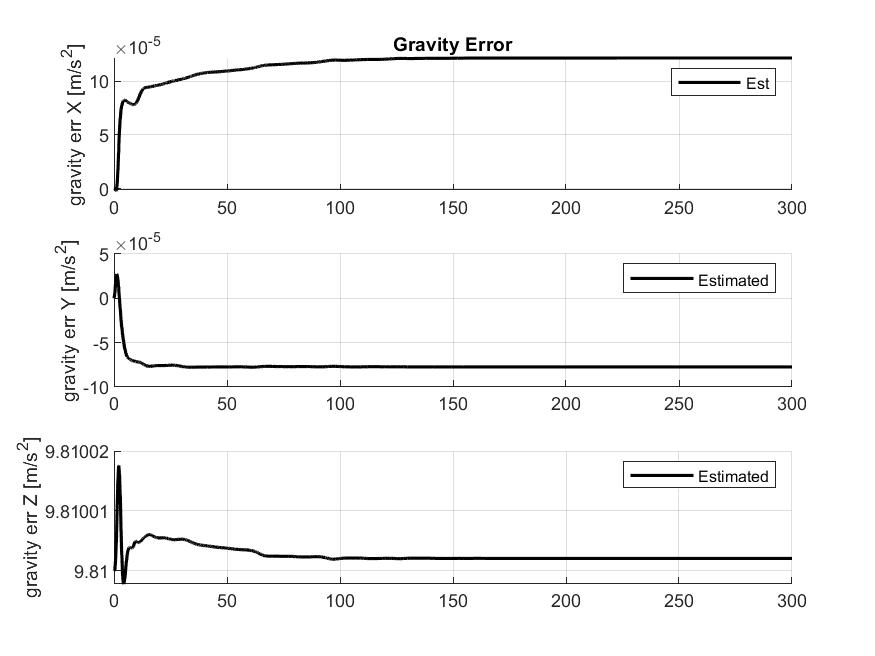
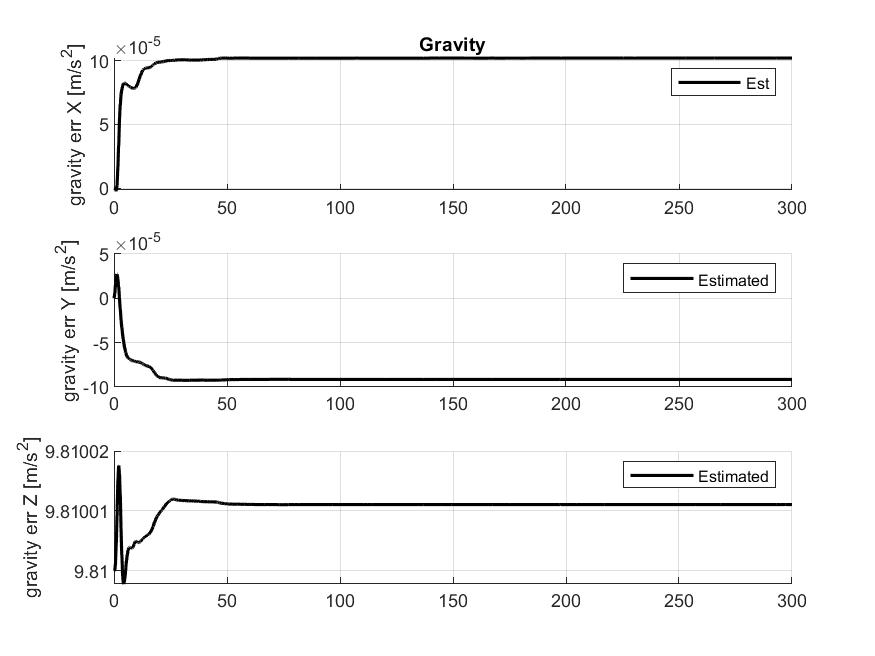
Added SkidpadSim to simulate the skidpadtrack, estimation works

diff --git a/ESKF/SkidPadSim.m b/ESKF/SkidPadSim.m
@@ -1,4 +1,4 @@
-function [p_n_nb_data,v_n_nb_data,q_nb_data, bacc_b_nb_data, bars_b_nb_data, f_b_imu_data, omega_b_imu_data,time, g_n_nb, v_abs] = CircleSim(simtime ,frequency, enable_plots)
+function [p_n_nb_data,v_n_nb_data,q_nb_data, bacc_b_nb_data, bars_b_nb_data, f_b_imu_data, omega_b_imu_data,time, g_n_nb, v_abs] = SkidPadSim(simtime ,frequency, enable_plots)
 %CIRCLESIM Summary of this function goes here
 %   Radius = 50 [m]
 %   Absolute velocity = (2 * pi * R)/30 [m/s] (30 sec per circle)
@@ -12,27 +12,13 @@ N = simtime/h;
 % Circle data
 R = 10 * sqrt(26);
 v_abs = (2 * pi * R) / 30;
-inclination = 20;
-height = 18.20;
+% inclination = 20;
+% height = 18.20;
 
 g = 9.81;
-t = 0;
-t_count = t;
+t = h;
+count = 1;
 
-
-% seed.Type = 'twister';
-% seed.Seed = 0;
-% seed.State = zeros(625,1)
-% fileID = fopen('working-seed.txt','r');
-% formatSpec = '%d';
-% workingSeed = fscanf(fileID,formatSpec);
-% fclose(fileID);
-% for index=1:625
-%     seed.State = workingSeed;
-% end
-% disp(seed.State);
-
-% seed = rng;
 
 % Allocate data
 time = zeros(1, N);
@@ -55,6 +41,7 @@ roll = deg2rad * -20;
 pitch = deg2rad * 0;
 yaw = deg2rad * 0;
 q_nb = euler2q(roll, pitch, yaw);
+q_nb = q_nb / norm(q_nb);
 % q_nb = [1 0 0 0]';
 
 % Bias
@@ -83,6 +70,15 @@ g_n_nb = [0 0 g]';
 for k = 1:N
     
     time(k) = t;
+    modulo = mod(round(t,5),15); 
+    if (modulo == 0)
+        count = count + 1;
+        if ( count == 2 )
+            omega_b_nb = -omega_b_nb;
+            a_b_nb = -a_b_nb;
+            count = 0; 
+        end
+    end
     p_n_nb_data(:,k) = p_n_nb;
     v_n_nb_data(:,k) = v_n_nb;
 %     att_n_nb_data(:,k) = att_n_nb;
@@ -116,11 +112,12 @@ for k = 1:N
 %     att_n_nb = att_n_nb + (h * omega_b_imu);
 %     att_n_nb = ssa(att_n_nb,'rad'); 
     q_nb = quatprod(q_nb,q_omega);
+    q_nb = q_nb / norm(q_nb);
     bacc_b_nb = acc_bias + 0.001 * wgn(3, 1, 1);
     bars_b_nb = ars_bias + 0.00005 * wgn(3, 1, 1);
 
     t = t + h;
-    t_count = t_count + h;
+%     t_count = t_count + h;
     
 %     alpha = alpha + (pi/(15*h));
 %     [ax_b_nb, ay_b_nb, az_b_nb] = trueBodyAccel(alpha, inclination);
@@ -207,20 +204,20 @@ if (enable_plots)
 %     figure(gcf);
 %     subplot(3, 1, 1)
 %     hold on;
-%     plot(time, rad2deg*att_n_nb_data(1,:), 'Color', 'black', 'Linewidth', 1.5);
+%     plot(time, rad2deg*q2euler(q_nb_data(1,:)), 'Color', 'black', 'Linewidth', 1.5);
 %     ylabel('Roll [m]')
 %     legend('True');
 %     title('Attitude');
 % 
 %     subplot(3, 1, 2)
 %     hold on;
-%     plot(time, rad2deg*att_n_nb_data(2,:), 'Color', 'black', 'Linewidth', 1.5);
+%     plot(time, rad2deg*q2euler(q_nb_data(2,:)), 'Color', 'black', 'Linewidth', 1.5);
 %     ylabel('Pitch [m]')
 %     legend('True');
 % 
 %     subplot(3, 1, 3)
 %     hold on;
-%     plot(time, rad2deg*att_n_nb_data(3,:), 'Color', 'black', 'Linewidth', 1.5);
+%     plot(time, rad2deg*q2euler(q_nb_data(3,:)), 'Color', 'black', 'Linewidth', 1.5);
 %     xlabel('Time [s]');
 %     ylabel('Yaw [m]')
 %     legend('True');
@@ -236,5 +233,3 @@ if (enable_plots)
 end
     
 end
-
-

diff --git a/ESKF/MESKF_sola.m b/ESKF/MESKF_sola.m
@@ -37,7 +37,7 @@ att_n_nb = zeros(3, N);
 g_err_data = zeros(3,N);
 
 % from sim
-[p_n_nb, v_n_nb, q_nb, bacc_b_nb, bars_b_nb, f_b_imu, omega_b_imu,time, g_n_nb, v_abs] = CircleSim(simtime,f_samp,0);
+[p_n_nb, v_n_nb, q_nb, bacc_b_nb, bars_b_nb, f_b_imu, omega_b_imu,time, g_n_nb, v_abs] = SkidPadSim(simtime,f_samp,0);
 % [p_n_nb, v_n_nb, att_n_nb, f_b_imu, w_b_imu,time] = StandStillSim(simtime,f_samp,0);
 
 % dual gnss config
@@ -114,7 +114,7 @@ for k = 1:N
         count = 0;
         
         % noisy measurements
-%         p_meas = p_n_nb(1:3,k) +  0.001 * wgn(3, 1, 1);
+        p_n_nb(1:3,k) = p_n_nb(1:3,k) +  0.001 * wgn(3, 1, 1);
 %         q_meas = q_nb(1:4,k) + 0.00005 * wgn(4, 1, 1);
 %         
 %         q_conj = quatconj(q_n_ins')';
@@ -147,6 +147,7 @@ for k = 1:N
         % compute difference 
 %         delta_y = [(p_gnss_1 - p_hat_1) ; (p_gnss_2 - p_hat_2); (p_gnss_3 - p_hat_3); delta_theta]; 
 %         delta_y = [(p_gnss_1 - p_hat_1) ; (p_gnss_2 - p_hat_2); delta_theta]; 
+%         delta_y = [(p_gnss_1 - p_hat_1); (p_gnss_2 - p_hat_2)];
         delta_y = [(p_gnss_1 - p_hat_1) ; (p_gnss_2 - p_hat_2) ; (v_gss - v_hat)];
         
         % compute error state with ESKF
@@ -521,7 +522,7 @@ hold on;
 plot(time, g_err_data(1,:),'Color', 'black', 'Linewidth', 1.5);
 ylabel('gravity err X [m/s^2]')
 legend('Est');
-title('Gravity Error');
+title('Gravity');
 grid on;
 
 subplot(3, 1, 2)
@@ -545,7 +546,8 @@ saveas(gcf,'results/GravityErrorState.jpeg')
 figure(14)
 figure(gcf)
 subplot(1, 1, 1)
-plot(ins_data(2,:), ins_data(1,:), 'Color', 'black', 'Linewidth', 1.5);
+plot(p_n_nb(2,:), p_n_nb(1,:), 'Color', 'black', 'Linewidth', 1.5);
+plot(ins_data(2,:), ins_data(1,:), 'Color', [1,165/255, 0], 'Linewidth', 1.5);
 xlabel('Y position [m]');
 ylabel('X position [m]');
 title('Position Plot');

diff --git a/ESKF/ErrorStateKalman_sola.m b/ESKF/ErrorStateKalman_sola.m
@@ -26,6 +26,8 @@ function [delta_x, E] = ErrorStateKalman_sola(r_b_1, r_b_2, r_b_3, E_prev,delta_
         std_vel = 1;
         R_vel = std_vel^2*I3;
         R = blkdiag(R_pos, R_pos, std_vel^2);
+%         R = blkdiag(R_pos , R_pos);
+
 
         std_acc = 0.01 * sqrt(10);
         Q_acc = std_acc * std_acc * I3; 
